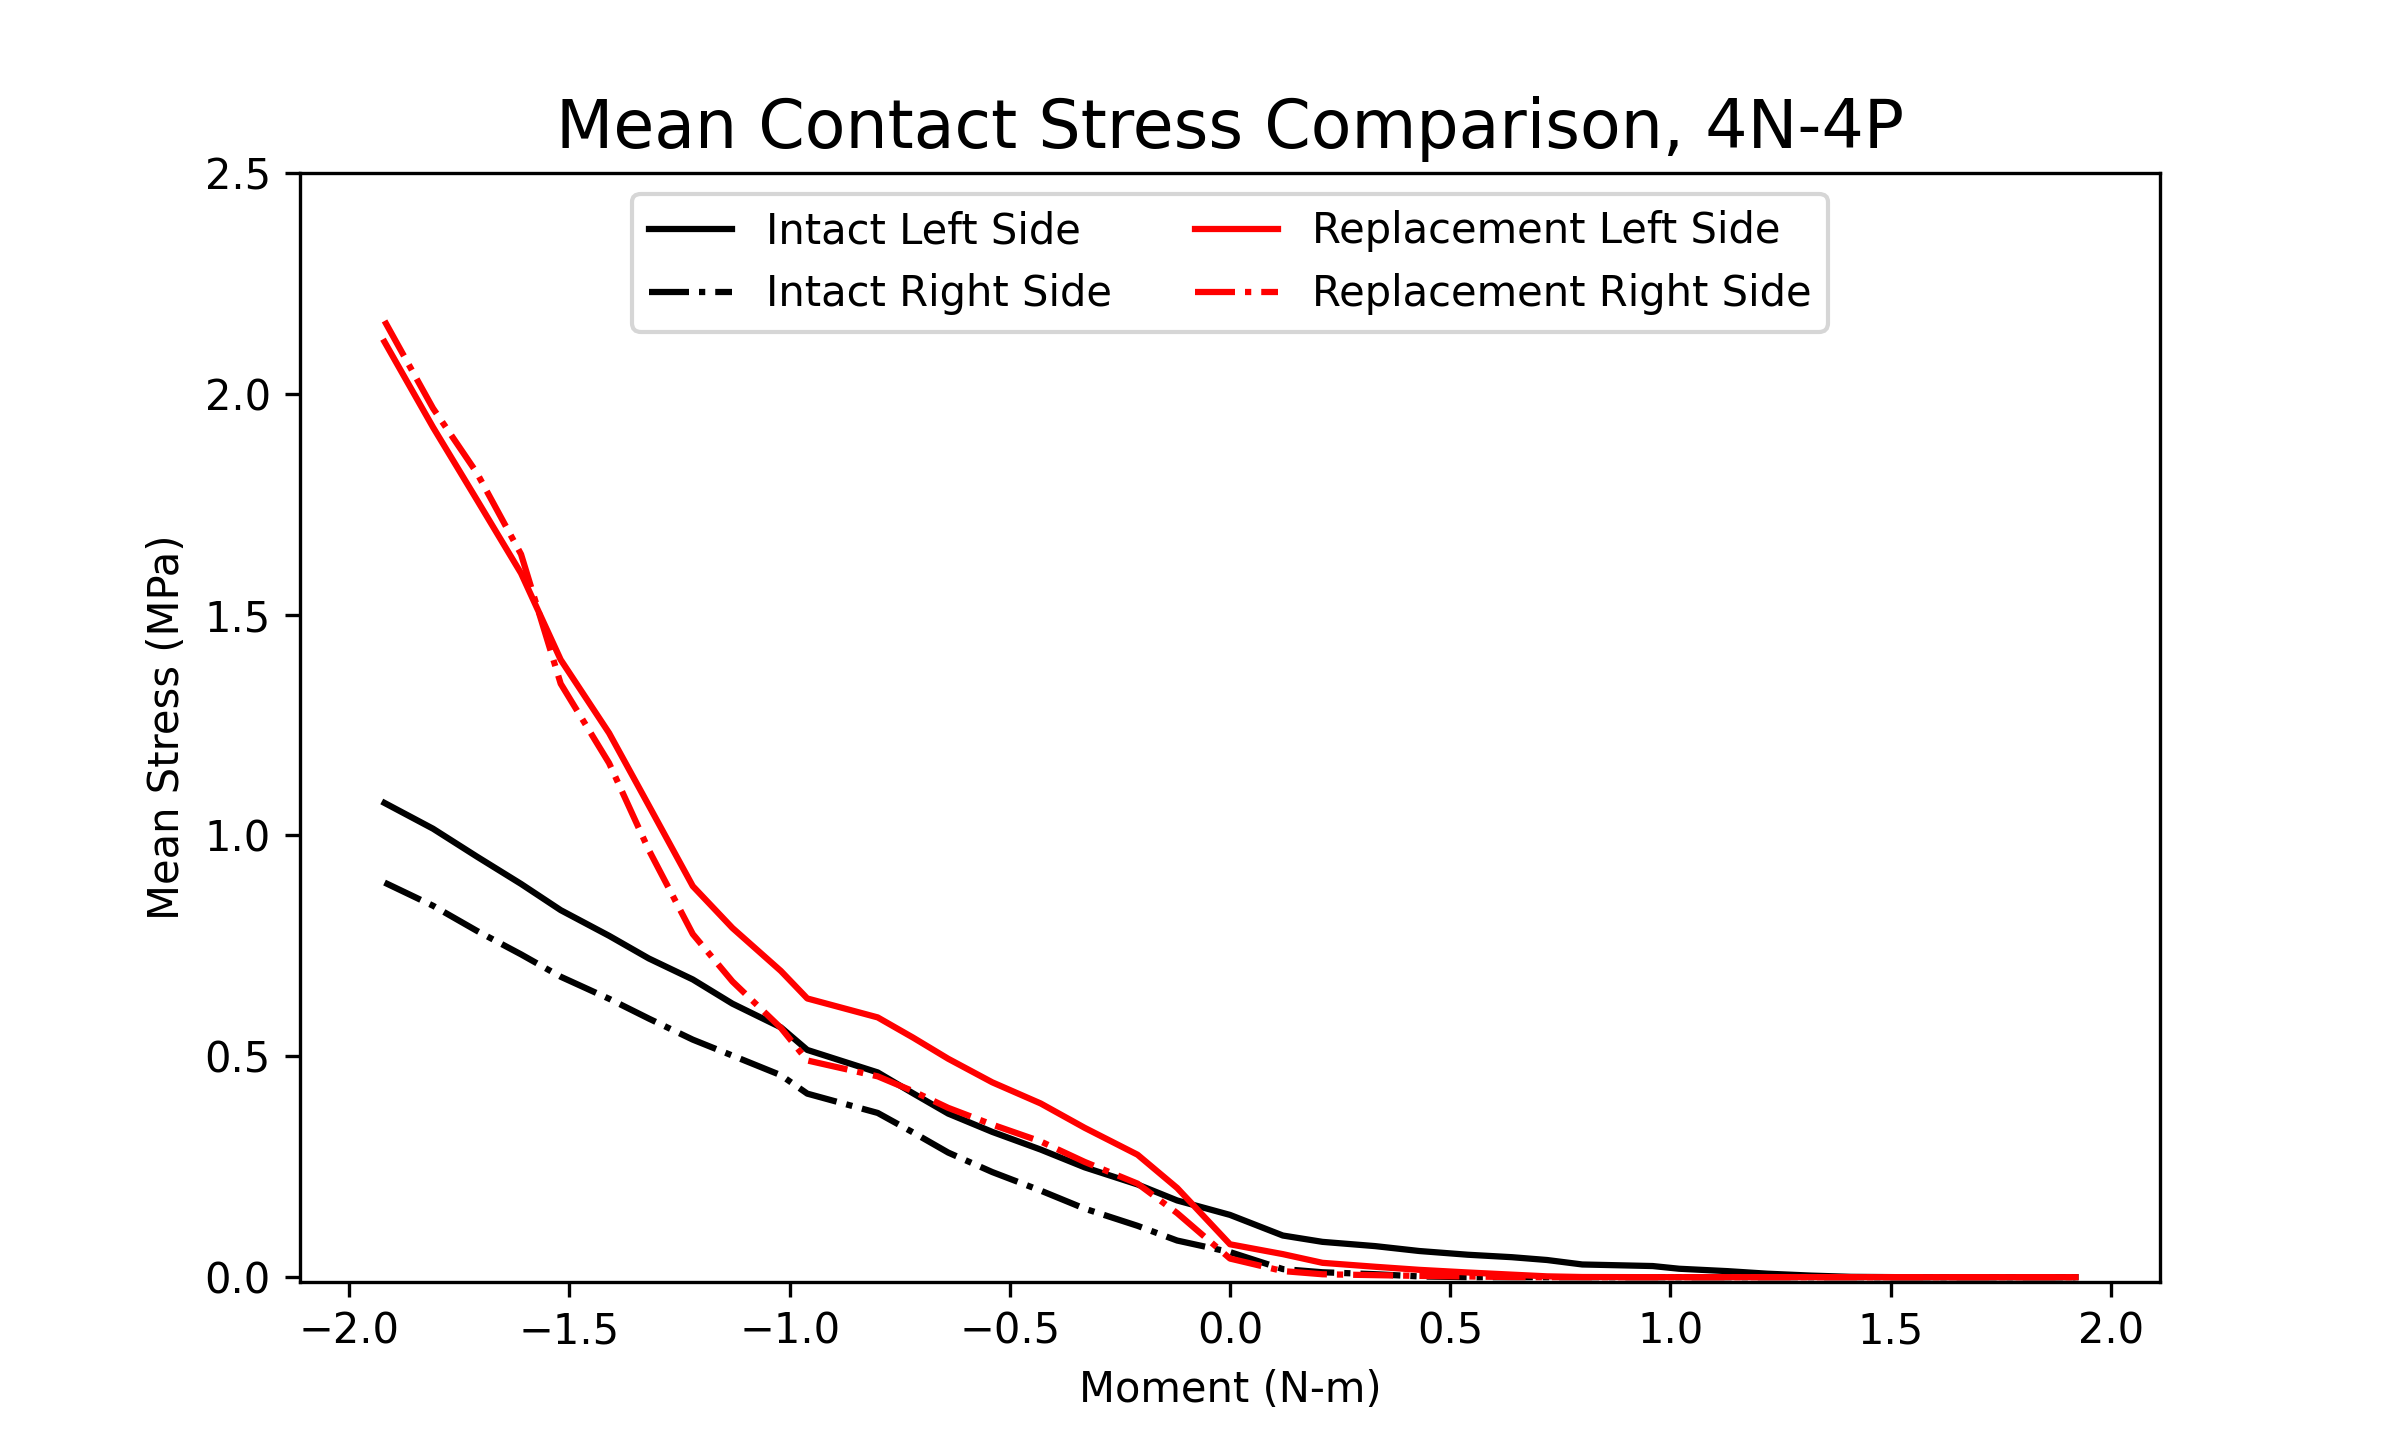
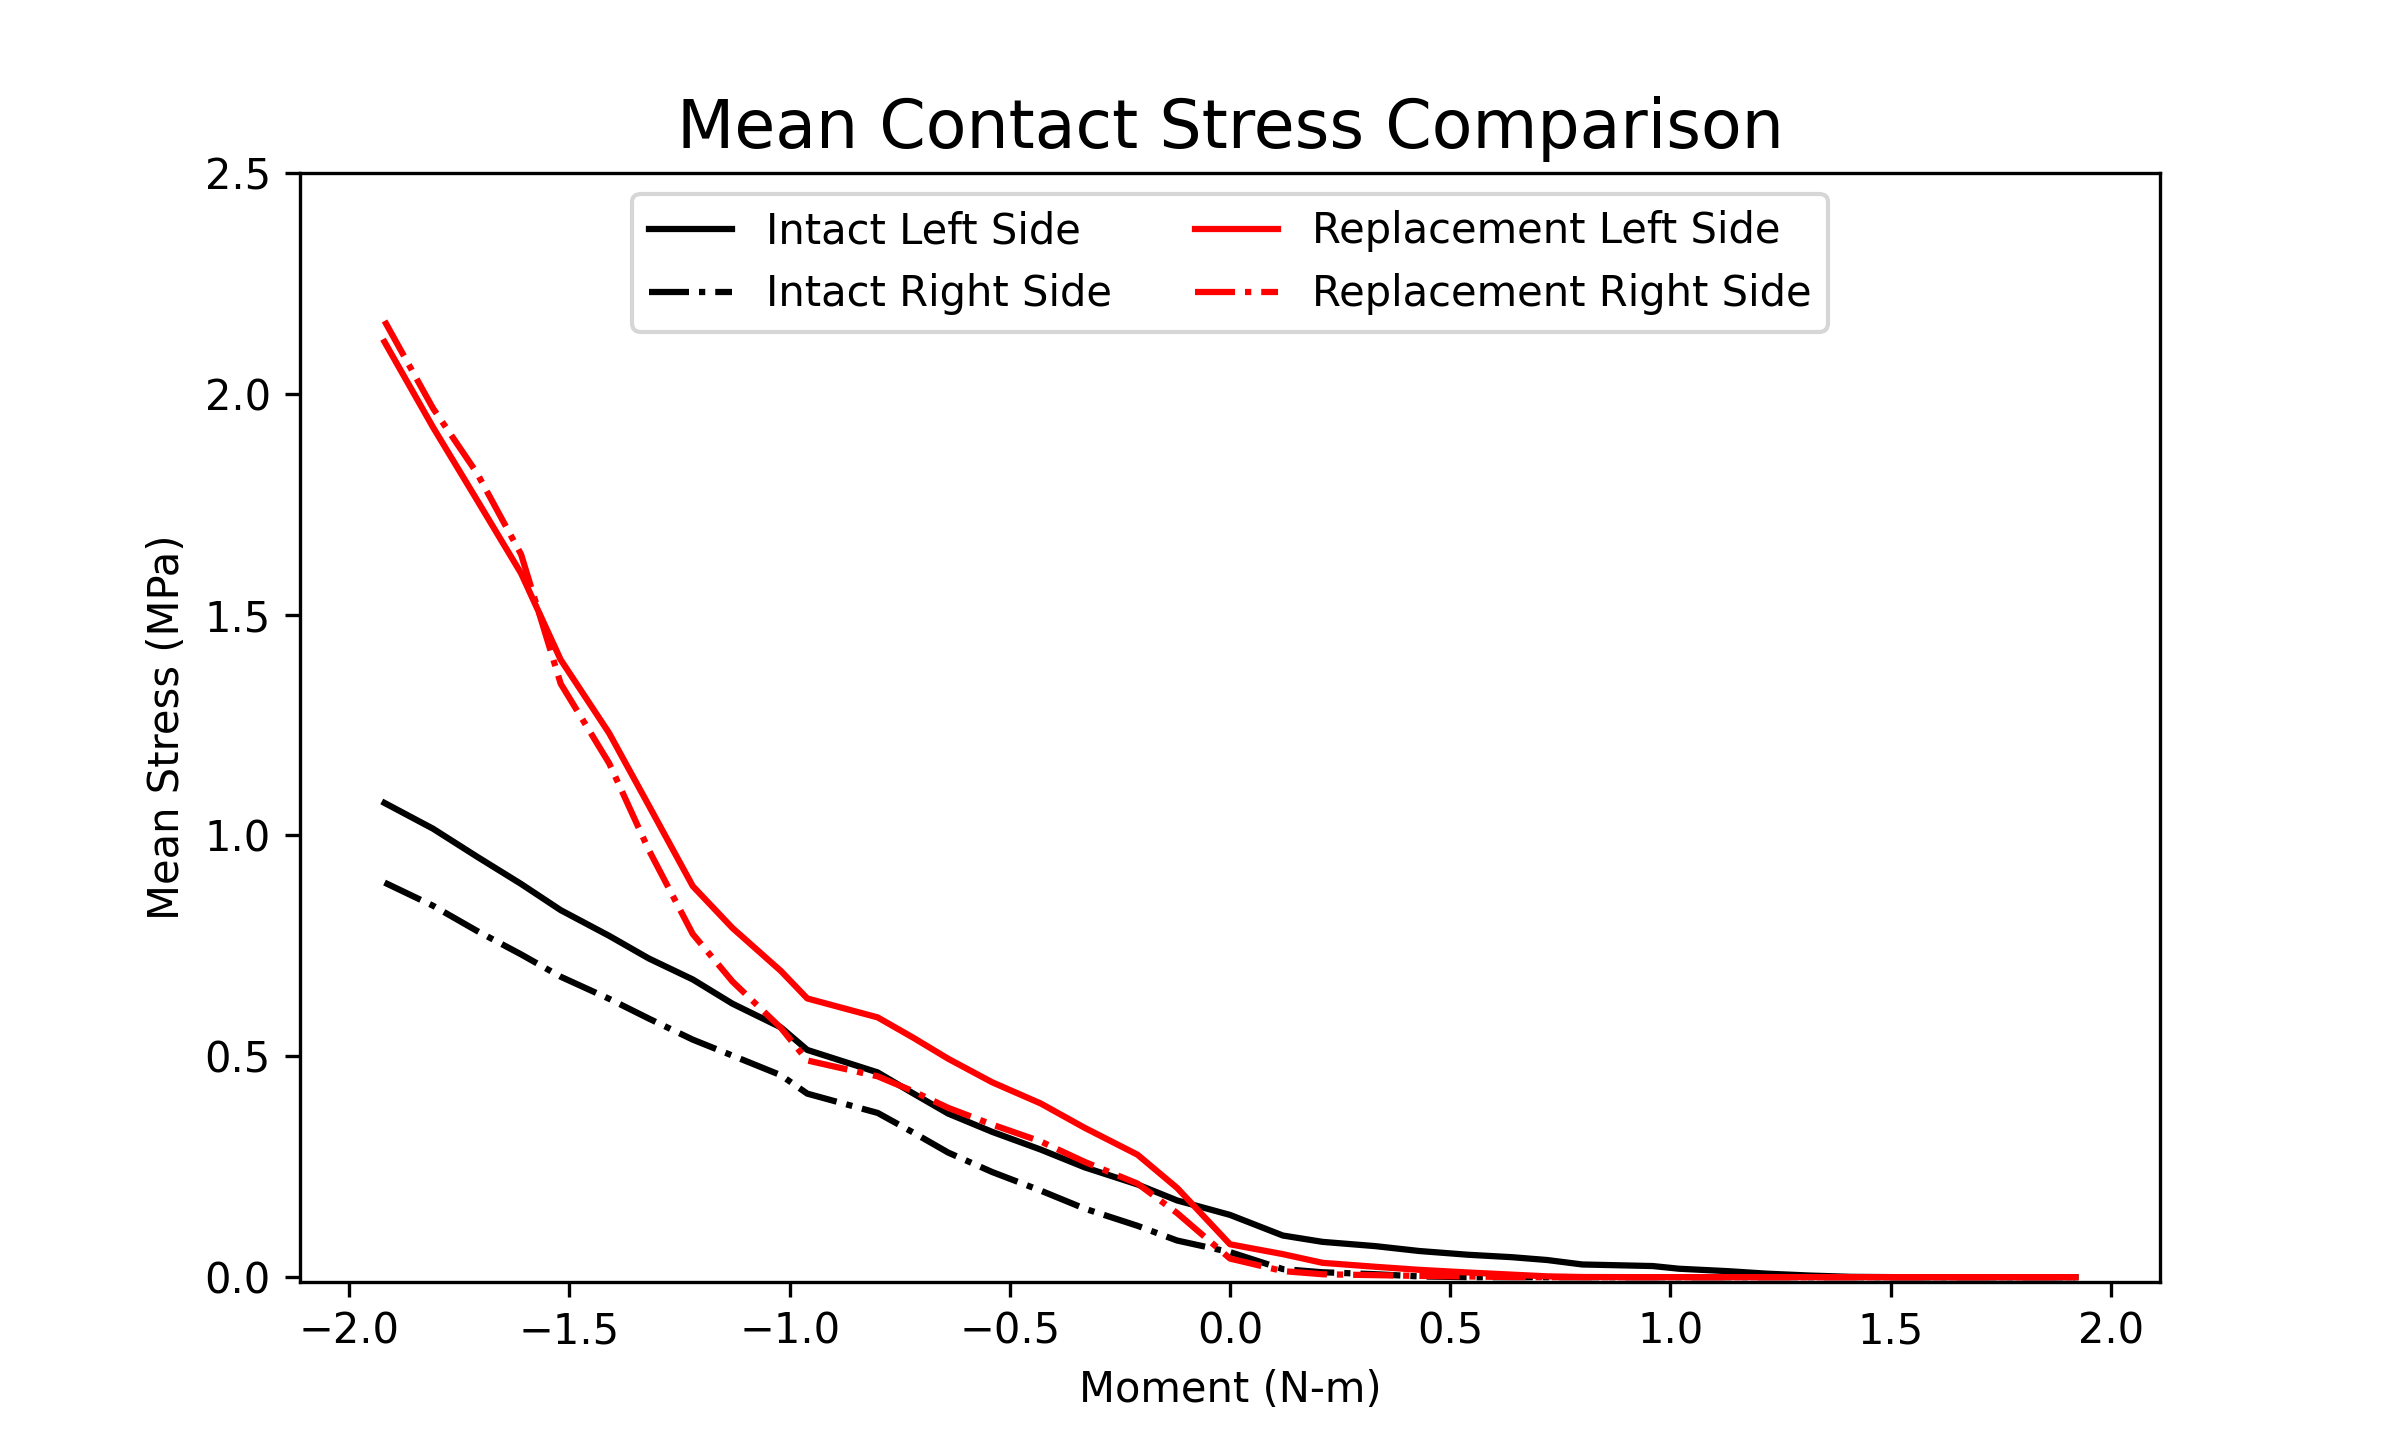
fixed titles for pdr plots

Changed region(s): [[0.2188, 0.0625, 0.8125, 0.125]]

diff --git a/New_FacetMeanStress/Code_Files/FacetContactMeanStressPlots.py b/New_FacetMeanStress/Code_Files/FacetContactMeanStressPlots.py
@@ -491,7 +491,7 @@ def plotfacet_PDR(model1, model2, motion):
 
     handles_1, labels_1 = ax.get_legend_handles_labels()
     fig.set_figwidth(8)
-    ax.set_title(f"Mean Contact Stress Comparison, {motion}", fontsize = 16)
+    ax.set_title(f"Mean Contact Stress Comparison", fontsize = 16)
     ax.set_xlabel('Moment (N-m)')
     ax.set_ylabel('Mean Stress (MPa)')
     ax.set_ylim(-.01,2.5)
